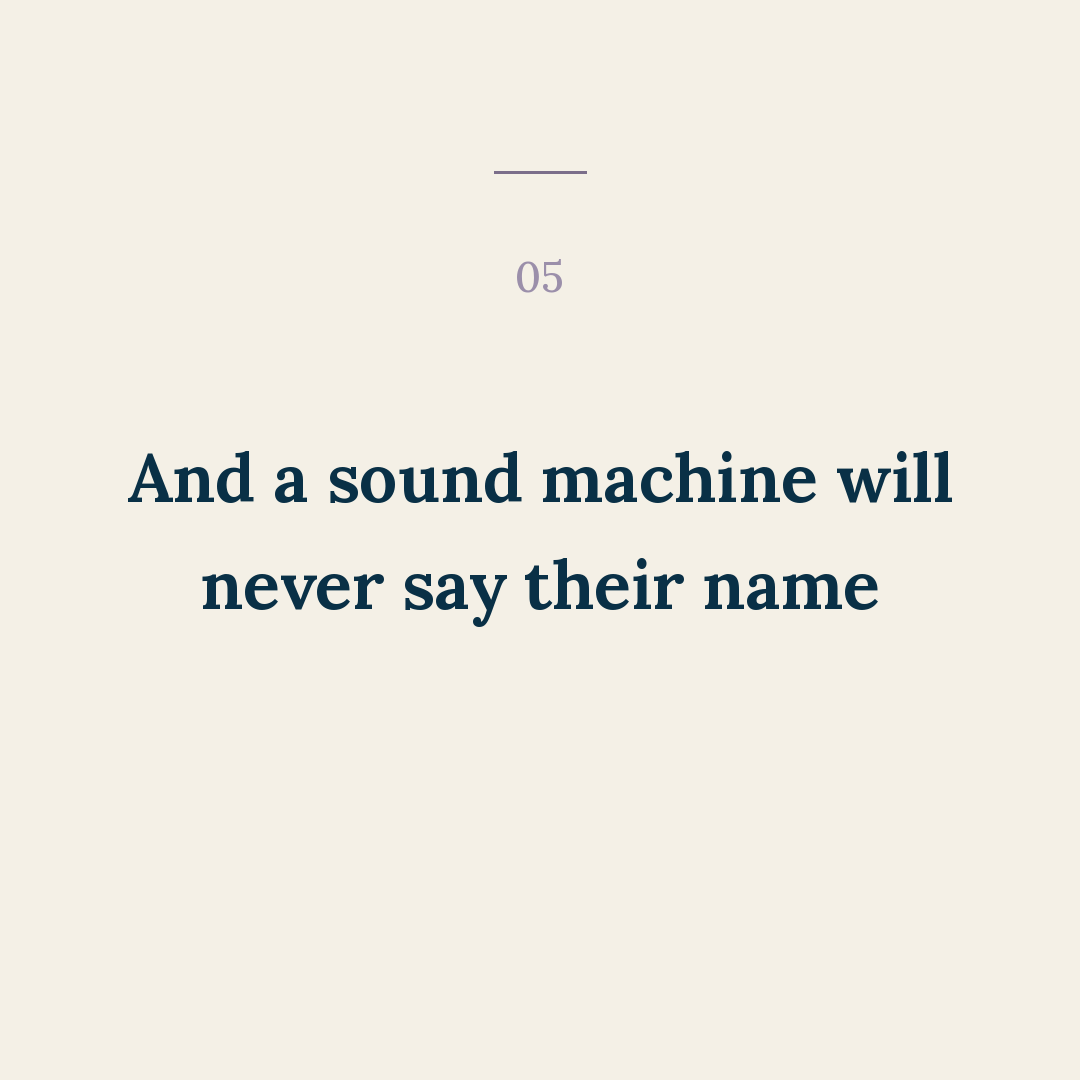
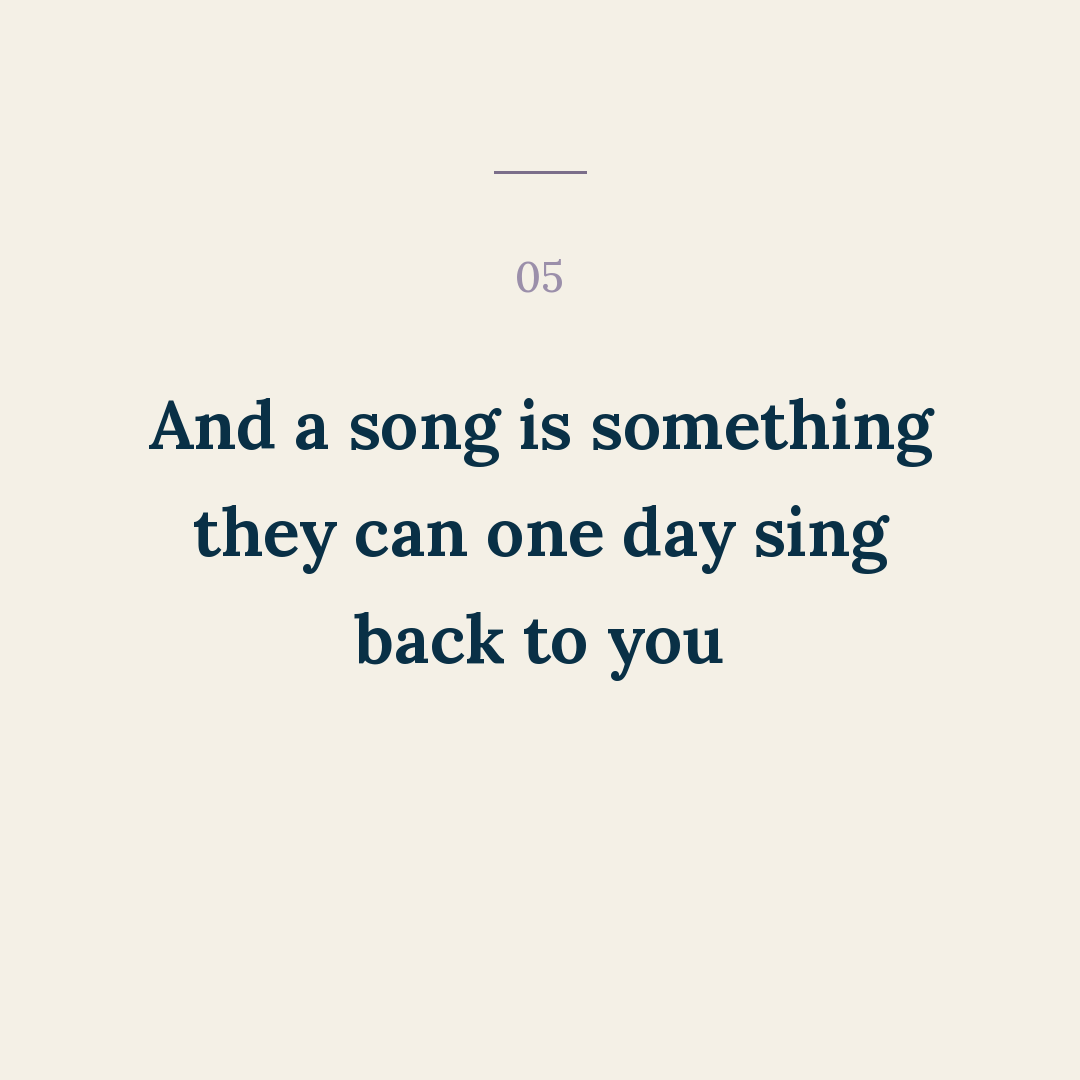
Add 66-not-just-background-noise (66 - Not Just Background Noise)

Changed region(s): [[0.1222, 0.3667, 0.8861, 0.6417]]

diff --git a/posts/66-not-just-background-noise/slides.md b/posts/66-not-just-background-noise/slides.md
@@ -20,9 +20,23 @@ A lullaby isn't just background noise to your newborn:
 02  A song has a shape: the same rise and fall, in the same order, every night
 03  That repeated shape can become a cue their body starts to expect
 04  It travels with them — the car, a grandparent's house, a hotel room
-05  And a sound machine will never say their name
+05  And a song is something they can one day sing back to you
 
 ## Closer (website — LOCKED card)
 render_cta default main + url. Eyebrow only: "Something with a shape, not just a sound."
 
 Rendered slide-1..slide-7 (weight 650, BG_CREAM, cover byline ON — Authority/science lane).
+
+REVISED 2026-08-24 per Ben's review: item 05 was emptied in the workbook, and an empty cell is a
+request for a replacement, not a shorter post (9b).
+
+The cut line was *"And a sound machine will never say their name."* Two things were wrong with it
+and both are worth remembering:
+1. **It knocked a product a lot of these moms rely on** — and it directly contradicted post 59
+   ("You don't have to whisper around a sleeping newborn", Aug 21), which spent five slides telling
+   her household noise is fine. Two posts nine days apart, opposite postures on the same object.
+2. It was the only item that argued by putting something else DOWN. Everything else in the post
+   earns the distinction on its own terms.
+
+The replacement keeps the song-vs-noise distinction but makes it forward-looking and warm, and it
+claims nothing the product doesn't do.
